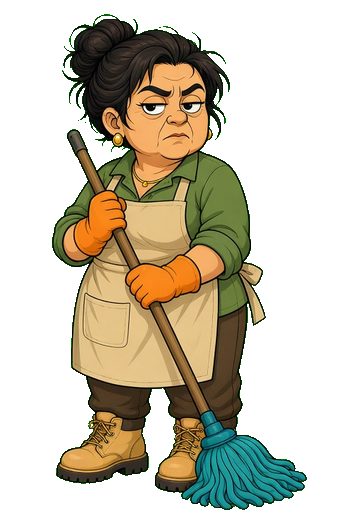
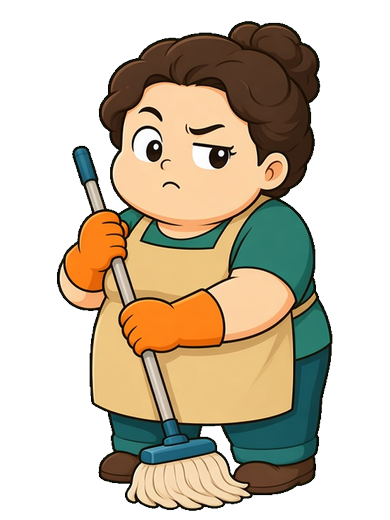
Replace guaiqi-evacuate with redrawn full-body characters
Home, character cards, and the gallery use the 512×768 portraits. In-game sprites stay the 390×520 cuts.

diff --git a/guaiqi-evacuate/js/ui.js b/guaiqi-evacuate/js/ui.js
@@ -62,10 +62,10 @@ export function refreshHomeStats(save) {
   if (hero) {
     const cid = save.selectedChar || 'grin';
     const map = {
-      grin: 'assets/char_grin.png',
-      medic: 'assets/char_medic.png',
-      janitor: 'assets/char_janitor.png',
-      intern: 'assets/char_intern.png',
+      grin: 'assets/char_grin_full.png',
+      medic: 'assets/char_medic_full.png',
+      janitor: 'assets/char_janitor_full.png',
+      intern: 'assets/char_intern_full.png',
     };
     hero.src = map[cid] || map.grin;
   }
@@ -339,11 +339,12 @@ export function renderCharCards(save, selectedId, onSelect, onBuy) {
     const spr = getCharSprite(c.id);
     const thumb = document.createElement('div');
     thumb.className = 'char-thumb';
-    const CHAR_FALLBACK = {
-      grin: 'assets/char_grin.png', medic: 'assets/char_medic.png',
-      janitor: 'assets/char_janitor.png', intern: 'assets/char_intern.png',
+    // v6: high-res full-body art for cards (in-game sprite stays char_<id>.png)
+    const CHAR_FULL = {
+      grin: 'assets/char_grin_full.png', medic: 'assets/char_medic_full.png',
+      janitor: 'assets/char_janitor_full.png', intern: 'assets/char_intern_full.png',
     };
-    const artSrc = (spr && spr.src) || CHAR_FALLBACK[c.id];
+    const artSrc = CHAR_FULL[c.id] || (spr && spr.src);
     if (artSrc) {
       const img = document.createElement('img');
       img.src = artSrc;
@@ -402,10 +403,10 @@ const GALLERY_ART = {
   enemy_elite: 'assets/enemy_office_zombie.png',
   enemy_slacker: 'assets/enemy_slacker_zombie.png',
   enemy_secret: 'assets/enemy_shadow.png',
-  char_grin: 'assets/char_grin.png',
-  char_medic: 'assets/char_medic.png',
-  char_janitor: 'assets/char_janitor.png',
-  char_intern: 'assets/char_intern.png',
+  char_grin: 'assets/char_grin_full.png',
+  char_medic: 'assets/char_medic_full.png',
+  char_janitor: 'assets/char_janitor_full.png',
+  char_intern: 'assets/char_intern_full.png',
   item_chest: 'assets/chest_normal.png',
   milestone_10: 'assets/icon_diamond.png',
 };

diff --git a/guaiqi-evacuate/js/sprites.js b/guaiqi-evacuate/js/sprites.js
@@ -14,7 +14,8 @@ const MANIFEST = {
   golem: 'assets/enemy_securibot.png',
   boss: 'assets/enemy_boss.png',
   shadow: 'assets/enemy_shadow.png',
-  // char_* paths ready for art drops
+  // v6 chibi player art: 390x520 (aspect 0.75 = drawClippedSprite clamp, no stretch),
+  // feet baseline y=511, figure ~490px tall, centred x=195. *_full.png = 512x768 UI art.
   grin: 'assets/char_grin.png',
   medic: 'assets/char_medic.png',
   janitor: 'assets/char_janitor.png',

diff --git a/guaiqi-evacuate/js/game.js b/guaiqi-evacuate/js/game.js
@@ -1691,7 +1691,7 @@ export class Game {
     const bob = Math.sin(this.time * 4 + p.pulse) * 2;
     const spr = getCharSprite(this.charId);
     if (spr) {
-      const tint = this.charId === 'intern' ? 'rgba(200,180,120,0.35)' : null;
+      const tint = null; // v6 art is colour-matched; old intern wash tint removed
       drawClippedSprite(ctx, spr, p.x, p.y + bob, p.r, {
         glow: 'none',
         scale: 1.95,

diff --git a/guaiqi-evacuate/index.html b/guaiqi-evacuate/index.html
@@ -32,7 +32,7 @@
       </div>
       <div class="home-content">
         <div class="home-hero">
-          <img id="home-hero-art" class="home-hero-art" src="assets/char_grin.png" alt=""/>
+          <img id="home-hero-art" class="home-hero-art" src="assets/char_grin_full.png" alt=""/>
           <div id="home-loadout" class="home-loadout"></div>
         </div>
         <h1 class="title-zh">怪奇撤离</h1>
